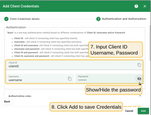
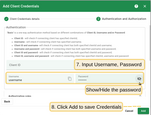
tbmq docs - improved getting started guide with windows option

Changed region(s): [[0.0265, 0.3391, 0.9801, 0.7304]]

diff --git a/_includes/docs/mqtt-broker/getting-started.md b/_includes/docs/mqtt-broker/getting-started.md
@@ -22,13 +22,13 @@ To obtain detailed instructions on how to install TBMQ on different platforms, w
 [**Installation options**](/docs/mqtt-broker/install/installation-options) documentation. 
 This resource will provide you with step-by-step guidance tailored to various deployment scenarios.
 
-For Linux users who have Docker installed, the execution of the following commands is recommended:
+Follow the below instructions depending on your system for quick TBMQ installation.
 
-```shell
-wget https://raw.githubusercontent.com/thingsboard/tbmq/{{ site.release.broker_branch }}/msa/tbmq/configs/tbmq-install-and-run.sh &&
-sudo chmod +x tbmq-install-and-run.sh && ./tbmq-install-and-run.sh
-```
-{: .copy-code}
+{% capture contenttogglespec %}
+Linux & Mac OS%,%linuxmacos%,%templates/mqtt-broker/install/linux-macos/linux-macos.md%br%
+Windows%,%windows%,%templates/mqtt-broker/install/windows/windows.md{% endcapture %}
+
+{% include content-toggle.html content-toggle-id="tbmqGettingStartedInstallation" toggle-spec=contenttogglespec %}
 
 Once the installation process is complete for local deployment, you can access TBMQ UI by visiting the following URL: **http://localhost:8083**. 
 Wait patiently until the services are up and running. To log in, utilize the following default credentials.
@@ -68,20 +68,15 @@ A wider range of authentication methods can be found within the [security guide]
 Now, let's proceed with publishing messages and subscribing to topics to observe the flow of messages. In this tutorial, 
 we will utilize [Mosquitto](https://mosquitto.org/) clients for this purpose. 
 
-```bash
-sudo apt install -y mosquitto-clients
-```
-{: .copy-code}
-
 Please refer to the following links to learn how to [publish messages](https://mosquitto.org/man/mosquitto_pub-1.html) to a topic and
-[subscribe](https://mosquitto.org/man/mosquitto_sub-1.html) to topics in order to receive messages.
+[subscribe](https://mosquitto.org/man/mosquitto_sub-1.html) to topic filters in order to receive messages.
 
 #### Subscribe to topic
 
 To subscribe to the **sensors/temperature** topic and start receiving messages from TBMQ, you can utilize the following command:
 
 ```bash
-mosquitto_sub -d -h $THINGSBOARD_MQTT_BROKER_HOST_NAME -p 1883 -t sensors/temperature -q 1 -u username -P password
+mosquitto_sub -d -h $THINGSBOARD_MQTT_BROKER_HOST_NAME -p 1883 -t sensors/temperature -q 1 -u username -P password -i tbmq_dev
 ```
 {: .copy-code}
 
@@ -91,7 +86,7 @@ Kindly replicate the aforementioned process for publishing the message below.
 
 Use the following command for local deployment:
 ```bash
-mosquitto_sub -d -h localhost -p 1883 -t sensors/temperature -q 1 -u username -P password
+mosquitto_sub -d -h localhost -p 1883 -t sensors/temperature -q 1 -u username -P password -i tbmq_dev
 ```
 {: .copy-code}
 

diff --git a/_includes/templates/mqtt-broker/install/windows/windows.md b/_includes/templates/mqtt-broker/install/windows/windows.md
@@ -1,0 +1,29 @@
+For Windows users who have Docker Desktop installed, the execution of the following instructions is recommended.
+
+**Note:** make sure the downloaded PowerShell scripts are allowed to run on your system.
+
+* **Open PowerShell** (Run as Administrator).
+* **(Optional) Get the current execution policy**. 
+It determines the level of security for running scripts on a system. For example, if `Restricted` is returned, it means PowerShell doesn't execute any scripts.
+
+```bash
+Get-ExecutionPolicy
+```
+{: .copy-code}
+
+* **(Optional) Change the current execution policy if required**. 
+Set it to the one that will allow you to run PowerShell scripts and the one that suits your security requirements.
+For example, `Unrestricted` is the least restrictive setting that allows all scripts to be executed.
+
+```bash
+Set-ExecutionPolicy Unrestricted
+```
+{: .copy-code}
+
+* **Install TBMQ**
+
+```bash
+Invoke-WebRequest -Uri "https://raw.githubusercontent.com/thingsboard/tbmq/main/msa/tbmq/configs/windows/tbmq-install-and-run.ps1" `
+-OutFile ".\tbmq-install-and-run.ps1"; .\tbmq-install-and-run.ps1
+```
+{: .copy-code}

diff --git a/docs/mqtt-broker/getting-started.md b/docs/mqtt-broker/getting-started.md
@@ -20,7 +20,7 @@ broker-mqtt-creds-creation:
         title: 'Input credentials name. For example, "Getting Started Credentials"'
     2:
         image: /images/mqtt-broker/getting-started/add-mqtt-creds-3.png
-        title: 'Input "clientID", "username" and "password" with chosen values. Click "Add" to save credentials'
+        title: 'Input "username" and "password" with chosen values. Click "Add" to save credentials'
 
 ---
 

diff --git a/_includes/templates/mqtt-broker/install/linux-macos/linux-macos.md b/_includes/templates/mqtt-broker/install/linux-macos/linux-macos.md
@@ -1,0 +1,7 @@
+For Linux or macOS users who have Docker installed, the execution of the following commands is recommended:
+
+```shell
+wget https://raw.githubusercontent.com/thingsboard/tbmq/{{ site.release.broker_branch }}/msa/tbmq/configs/tbmq-install-and-run.sh &&
+sudo chmod +x tbmq-install-and-run.sh && ./tbmq-install-and-run.sh
+```
+{: .copy-code}

diff --git a/_includes/docs/mqtt-broker/getting-started-guides/what-is-thingsboard-mqtt-broker.md b/_includes/docs/mqtt-broker/getting-started-guides/what-is-thingsboard-mqtt-broker.md
@@ -50,3 +50,7 @@ TBMQ is designed to be:
 * **durable**: the broker ensures data durability, preventing data loss.
 
 See [**TBMQ Architecture**](/docs/mqtt-broker/architecture) for more details.
+
+#### Ready to get started?
+
+<p><a href="/docs/mqtt-broker/getting-started/" class="button">Hello World Application</a></p>
